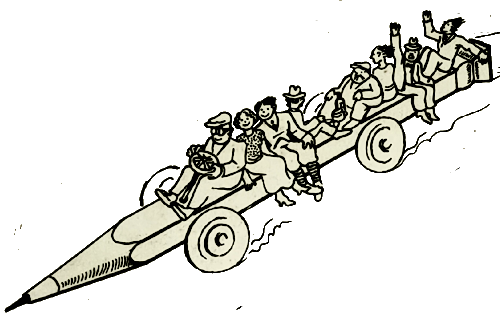
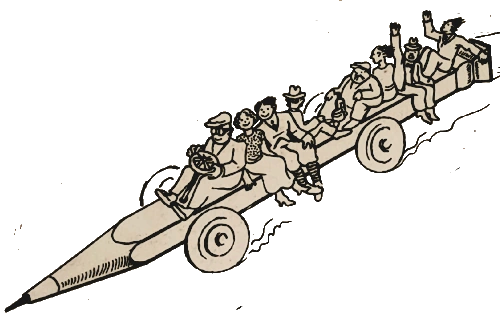
E

diff --git a/fend.html b/fend.html
@@ -135,7 +135,7 @@
 			
 			
 			Im selben Jahr fertigte Fend auf Basis des 1931 angemeldeten Patents DE165859 vom Düsseldorfer August Leistenschneider und Konrad Kressel den <b> "Montblanc Pix"</b>-Druckbleistift. <br>
-			Dieser wurde von Fend selbst auch als <b>Normix</b> verkauft. <br><span class="bildanker" data-bild="bild13"></span><br>  
+			Dieser wurde von Fend selbst auch als <b>Normix</b> verkauft. <br><br>  
 			
 		
 		
@@ -147,7 +147,9 @@
 			<br>
 			Außerdem fand am 6. und 7. Juni 1935 ein Betriebsausflug zum Bodensee statt, mit einem Fotowettbewerb.
 			<br><br>
-			
+			<div style="display:flex">	<img src="images/fendeinladungbild.png" style="height:250px; display: block; margin: 0 auto;"> 
+			<img src="images/fendstiftauto.webp" style="height:250px; display: block; margin: 0 auto;"> 
+			<img src="images/fendeinladungbild2.png" style="height:250px; display: block; margin: 0 auto;"> </div><br>
 			1936 wurde die Firma Gebrüder Fend zur Kommanditgesellschaft. Zu dieser Zeit beschäftigte Fend fast 500 Mitarbeiter. <br><br>
 			
 			<span class="bildanker" data-bild="bild7"></span>
@@ -301,14 +303,17 @@
 			<hr>
 
 
-	<i style="font-size:12px">Die Recherche hat mich viel Zeit gekostet. Ich würde mich darüber freuen, Ihre Gedanken und Meinungen zu Fend per E-Mail 
+	<i style="font-size:12px">Ich würde mich darüber freuen, Ihre Gedanken und Meinungen zu Fend per E-Mail 
 	zu erhalten!</i>
 	<br>
+
 
 			
 
 		<hr>
+		
 						Anmerkungen
+						<div style="font-size:12px">
 			<ol style="font-size:12px">
 
 				<li class="fndwn">
@@ -366,7 +371,7 @@
 				</li>
 				</ol>
 	
-			
+			</div>
 					</div>
 		
 		<div id="bilder"> 
@@ -379,7 +384,7 @@
 				<img id="bild9" src="images/markeFend.webp" data-scale="1."> 
 				<img  id="bild10" src="images/markeFend2.webp" data-scale="1.">
 				<img  id="bild12" src="images/logos/logo62.png" data-scale="0.45">
-				<img  id="bild13" src="images/fendstiftauto.webp" data-scale="0.7">
+
 				<img  id="bild14" src="images/fendfabrikaussen.webp" data-scale="0.9">
 				<img  id="bild15" src="images/fendfabrikbild.webp" data-scale="0.9">
 				<img  id="bild16" src="images/dillsteinerfend.webp" data-scale="0.6">
@@ -391,12 +396,14 @@
 <div class="clear"></div> <!-- wichtig damit float zurückgesetzt wird -->
 
 
+
+
 		<div style="width:100%; display:block;">
 			<hr>
 			<h3>Stammbaum der Familie Fend</h3>
 			<h4 style="color:#666666; margin-top:-20px">Bezogen auf die Fabrik Fend (anderes ist ausgelassen)</h4>
 			<img src="images/fendstammbaum.webp" alt="" style="border:2px black double; width: 100%">
-			<i style="font-size:9px">Dieses Bild ist meine Kreation und unvollständig. <b>Ich freue mich über Korrekturen und Ergänzungen.</b></i>
+			
 			<br>
 
 			
